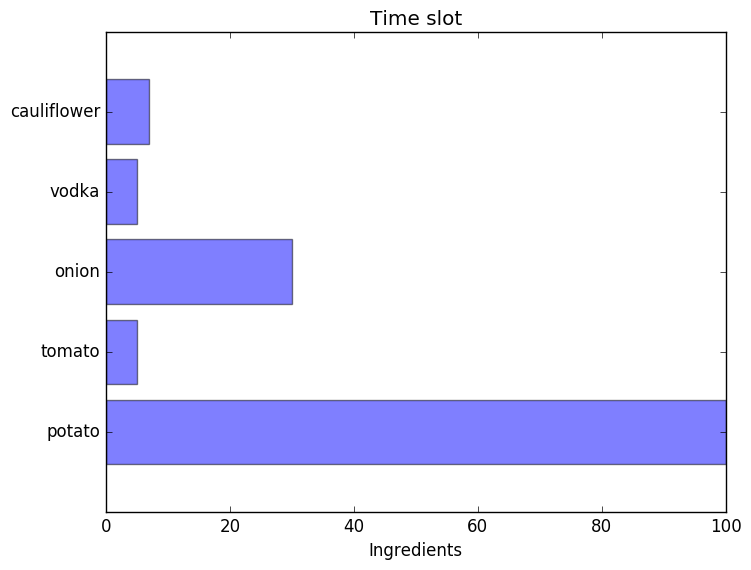
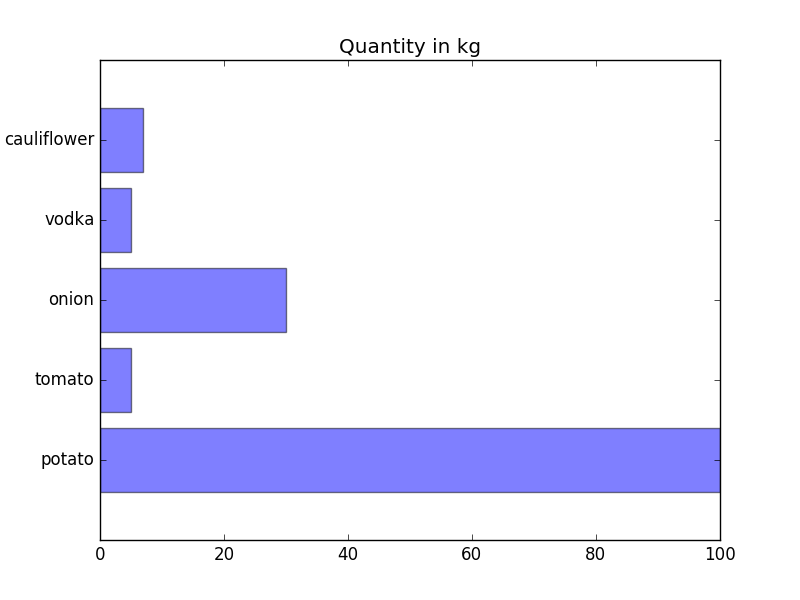
Renamed restaurant_reservation_visualization to peakhours_visualization

Changed region(s): [[0.0, 0.0, 0.98, 0.9842]]

diff --git a/Backend/scripts/peakhours_visualization.py b/Backend/scripts/peakhours_visualization.py
@@ -1,0 +1,71 @@
+# importing the requests library 
+import requests
+import nltk 
+import os
+from itertools import groupby
+from collections import defaultdict,Counter
+
+import numpy as np
+import matplotlib.pyplot as plt
+
+# api-endpoint 
+URL = "http://18.136.208.244:8080/api/viewReview"
+
+res = requests.post(url = URL ,data = {"city":"Bangalore"})
+review_data  = res.json()
+
+hotels_list = []
+
+#Fetching the list of hotels 
+for item in review_data:
+	if item['hotel_name'] not in hotels_list:
+		hotels_list.append(item['hotel_name'])
+
+URL = "http://18.136.208.244:8080/api/viewReservations"
+
+hotel_time_dict = defaultdict(int)
+
+cur_dir = os.path.dirname(os.path.realpath('restaraunt_reservation_visualization.py'))
+print(cur_dir)
+
+
+for hotel in hotels_list:
+	
+	#Changing the current working directory to respective hotel folder in assets
+	target_dir = os.path.join(cur_dir, '../assets/'+str(hotel)+'/')
+	target_dir = os.path.abspath(os.path.realpath(target_dir))
+	os.chdir(target_dir)
+
+
+	res = requests.post(url = URL ,data = {"hotel_name":hotel})
+	view_tables_data  = res.json()
+	
+	if view_tables_data == []:
+		continue
+	
+	else:
+		print(view_tables_data)
+
+		for item in view_tables_data:
+			hotel_time_dict[int(item['time'])] += 1
+
+		freq = []
+		for key in hotel_time_dict.keys():
+			freq.append(hotel_time_dict[key])
+		print(freq)	 
+
+
+		#Creating plot
+		time_slot = [1,2,3,4,5,6]
+		y_pos = np.arange(len(time_slot))
+		
+		plt.bar(y_pos, freq,width = 0.8,align='center', alpha=0.5)
+		plt.xticks(y_pos, time_slot)
+		plt.ylabel('Busyness of Time slot')
+		plt.title('Time slot')
+		fname = str(hotel) + "_PeakHours.png"
+
+		plt.savefig(fname, bbox_inches='tight')
+
+
+

diff --git a/Backend/scripts/inventory_visualization.py b/Backend/scripts/inventory_visualization.py
@@ -68,8 +68,9 @@ y_pos = np.arange(len(ing_name_list))
 
 plt.barh(y_pos, numeric_ing_quantity,align='center', alpha=0.5)
 plt.yticks(y_pos, ing_name_list)
-plt.xlabel('Ingredients')
 plt.title('Quantity in kg')
 #fname = str(hotel) + "_inventory.png"
 fname = "AKF" + "_inventory.png"
-plt.savefig(fname, bbox_inches='tight')
+plt.savefig(fname)
+
+# bbox_inches='tight'
